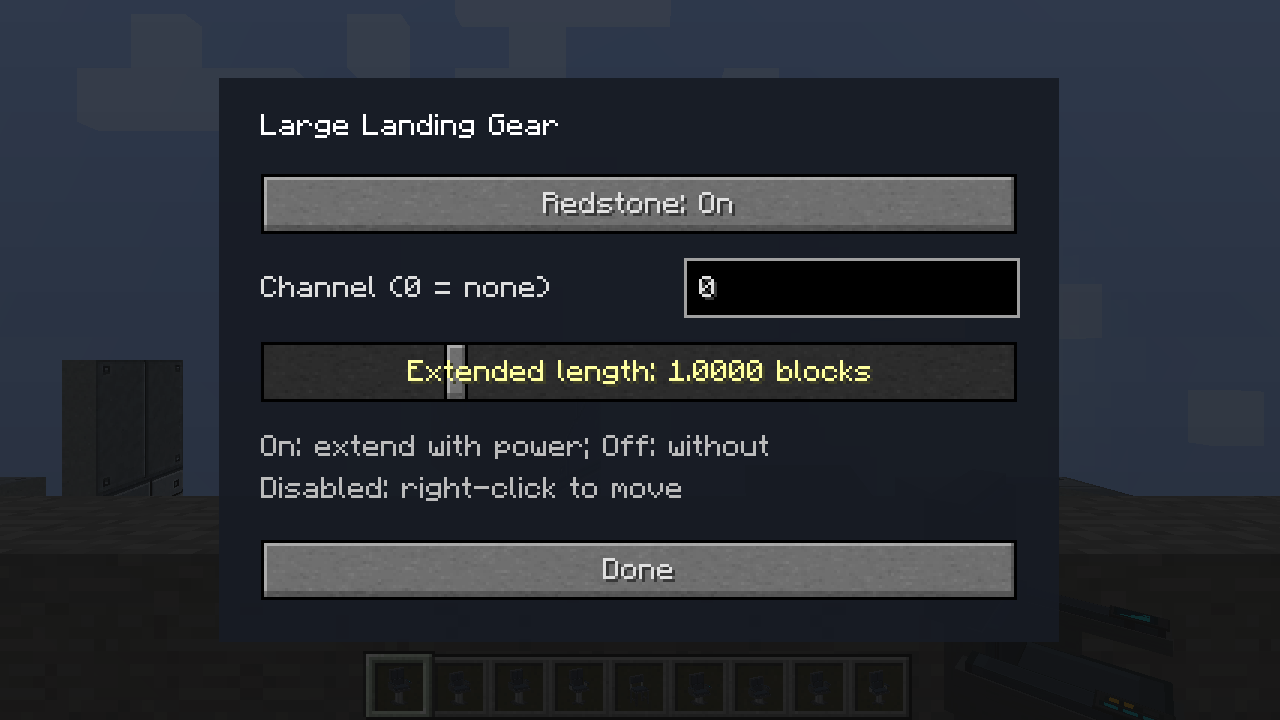
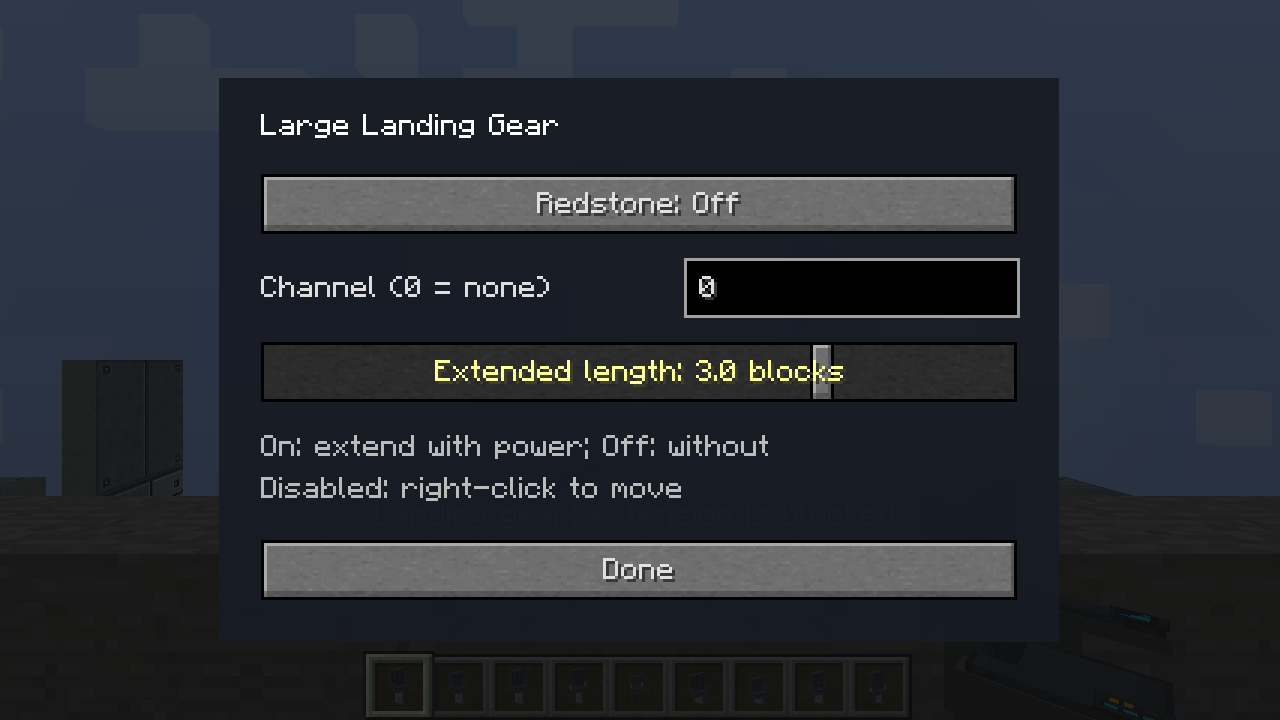
Record final live validation and updated gear and seat screenshots

Changed region(s): [[0.3125, 0.4583, 0.6875, 0.55], [0.4062, 0.2444, 0.5938, 0.3056]]

diff --git a/TASKS_1.2.md b/TASKS_1.2.md
@@ -41,7 +41,7 @@ Version stays at **1.2** for this entire task set. Finished JARs stay in `build/
 | Version / tracking | Done | Version 1.2 set in Gradle and mod metadata; baseline captured in `testclient/render-run.RA4YaV`. |
 | Face overrides and Copifier | Done | Default-off behavior, inheritance, save/copy and responsive dialog verified in `render-run.OoewtY`. |
 | WorldEdit diagonal flip | Done | WorldEdit actual transform tests cover all 8 metadata poses and X/Y/Z flips; diagonal wall and diagonal screen. |
-| Diagonal porthole | Done | Four shapes, full/half width, lateral coplanar joining. Vertically adjacent slopes are not coplanar and do not join. |
+| Diagonal porthole | Done | Four shapes, full/half width, lateral coplanar joining. Matching stacked half-width pieces join when the reversed upper piece continues the same surface plane. |
 | Diagonal half height | Done | Full-depth incline within eight pixels of height; upper/lower positions; matching straight runs. |
 | Landing gear | Done | Four static gear designs; telescopic gear animates over one second, checks obstruction, reserves its lower cell, responds to redstone/right-click. |
 | Diagonal inside/outside fill | Done | Independent inside/outside toggles, saved/copied with diagonal geometry; collision follows fill. |
@@ -113,7 +113,10 @@ Door timing scope: visual transitions now complete in 9 client visual ticks (450
 - `render-run.jcH1Oq`: gameplay and seat/gear GUI packet checks passed; retraction matched the starting pose exactly in a 61,200-pixel region. The model-loading gate caught two missing `block/` prefixes in the new gear item parents; fixed in `dbf58133`.
 - `render-run.wA6JGS`: corrected models loaded without errors; expanded gameplay checks passed, including relative gear ownership after copying, linked channels and saved Off-mode placement. Host slowdown near the last gallery shots exhausted the old 600-second harness timeout. Increased the harness limit to 1,200 seconds for the full rerun; production code is unchanged.
 
-- [ ] Shrink and center Luxury Seat and Military Seat hotbar icons so default and configured heights fit the slot; keep world and held-item geometry unchanged.
+- [x] Shrink and center Luxury Seat and Military Seat hotbar icons so default and configured heights fit the slot; keep world and held-item geometry unchanged.
 
 - Full Java 8 build and live suite passed for the completed feature batch in `render-run.IQzQBo`; runtime assertions, all existing pixel analyzers, gear retraction pixels and seat/gear configuration packets passed. Subsequent owner requests below need their own final validation.
-- [ ] Gear slider: use half-block increments from 0–4 and update the world immediately during dragging, preserving extended/retracted state. Validate live updates before Done and blocked-extension feedback.
+- [x] Gear slider: use half-block increments from 0–4 and update the world immediately during dragging, preserving extended/retracted state. Validate live updates before Done and blocked-extension feedback.
+
+- Final follow-up validation: Java 8 build and full live suite passed in `render-run.kWQbar`. Half-block settings, immediate movement before Done, blocked-length feedback, seat icon frame bounds for all three heights, gear retraction pixels and existing gameplay/rendering checks passed.
+- Recipe audit: all 40 player-facing blocks have base crafting recipes. Hidden propulsion variants, legacy doors and the internal controlled-ramp block intentionally have no separate recipes.

diff --git a/docs/gallery/version-1.2.md b/docs/gallery/version-1.2.md
@@ -69,6 +69,10 @@ Right-click to sit; sneak to dismount. Leave the cell above clear for the backre
 ![Joining disabled](../images/gallery/v1.2/seating-unjoined.png)
 ![Seat configuration](../images/gallery/v1.2/connected-seat-config.png)
 
+Seat inventory icons fit their slots at all three configured heights.
+
+![Seat and landing gear inventory icons](../images/gallery/v1.2/seat-and-gear-icons.png)
+
 ## Landing gear
 
 **Small Landing Gear** (`small_landing_gear`) and **Large Landing Gear**
